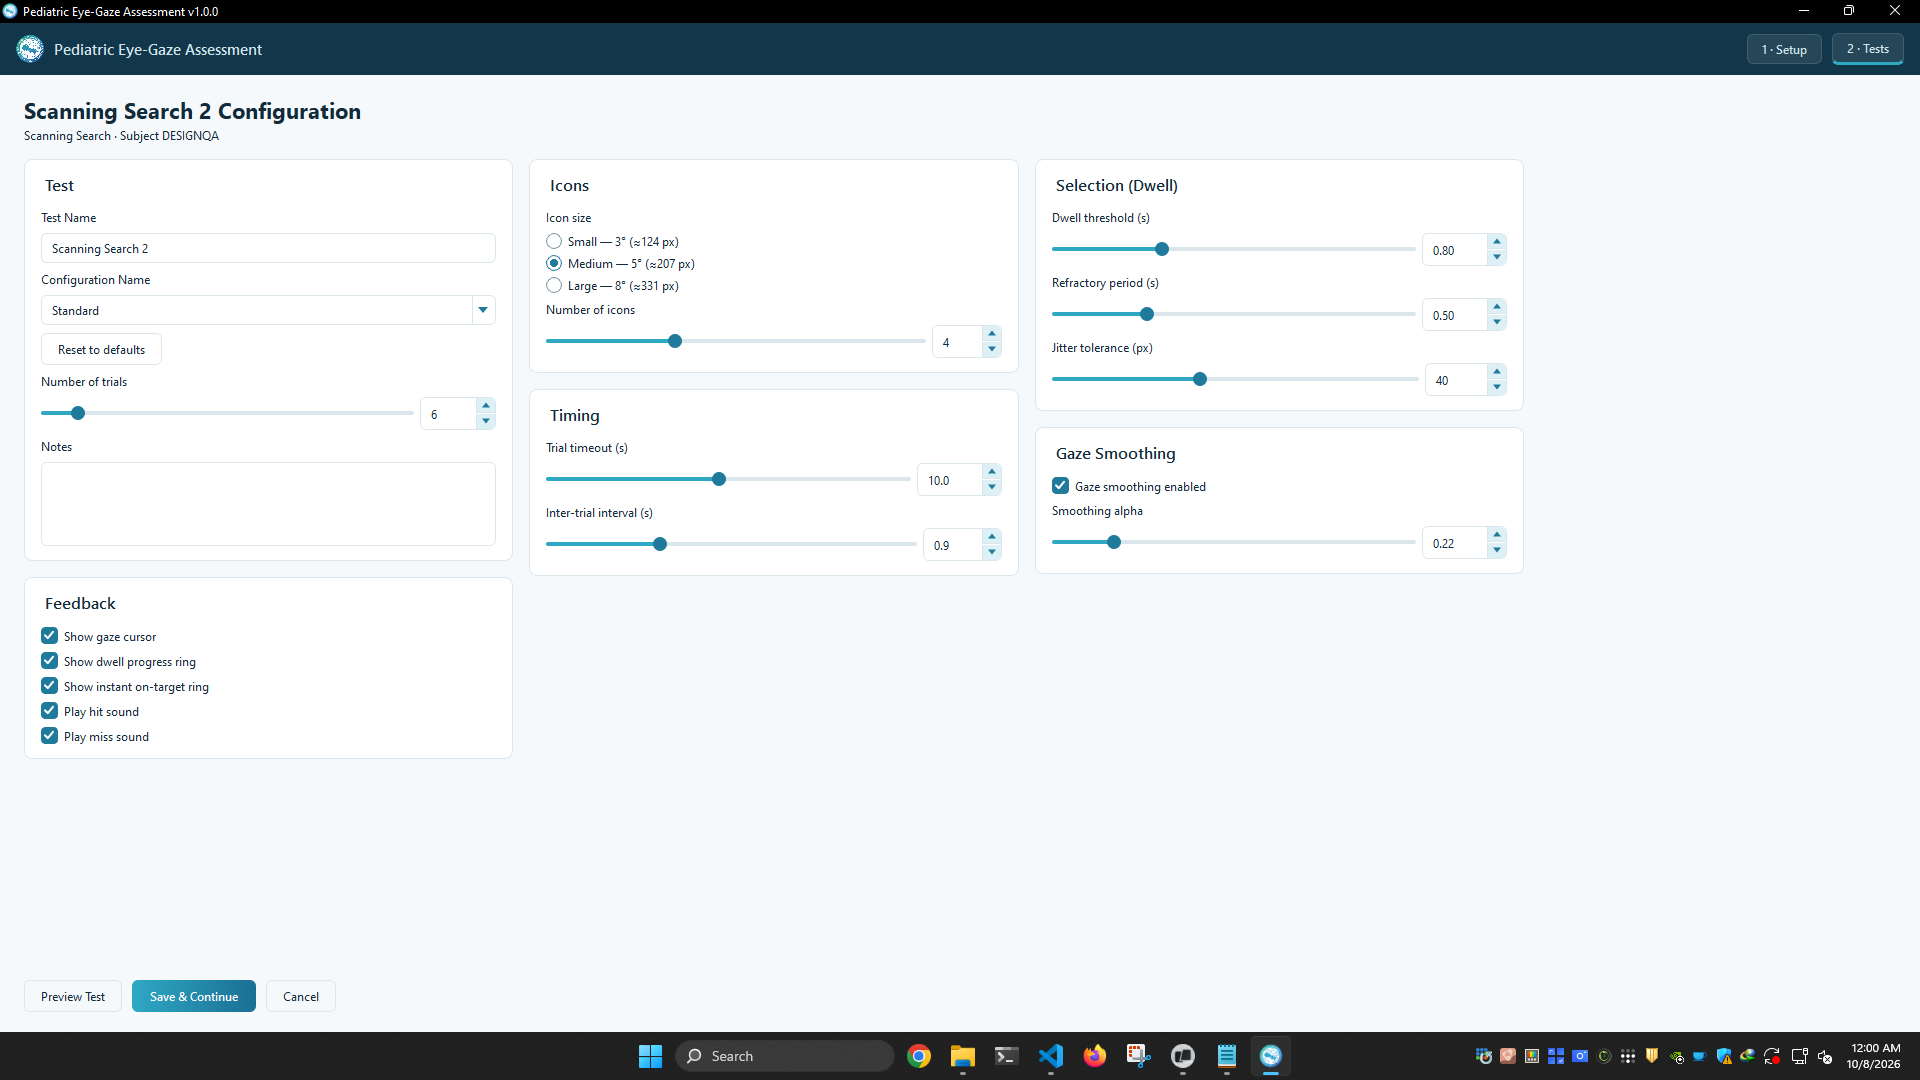
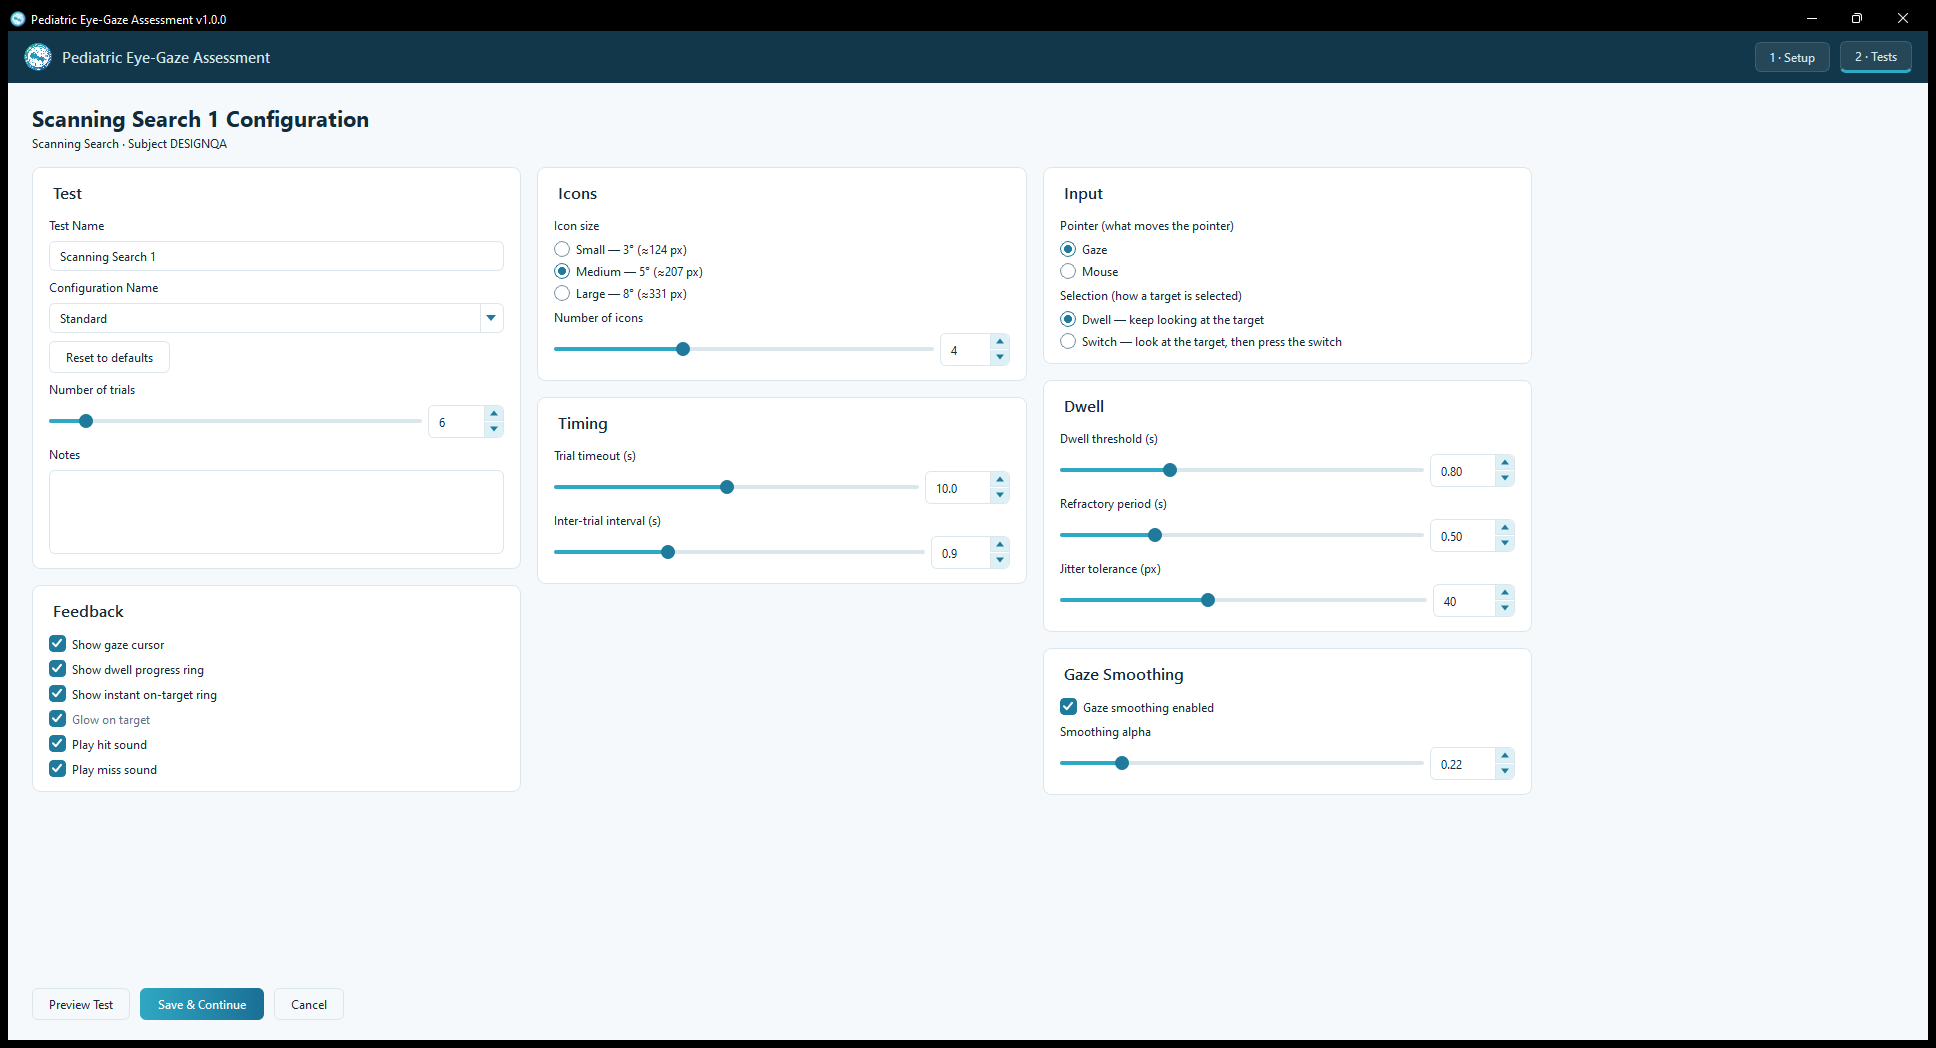
Refresh the Fable kit at c300411: re-capture Setup and the config pages with the Input card, add Mouse+Switch config, config-name dialog, Mouse start page and Switch glow captures (17-20), update inventory, brief, research T7 row and the refresh checklist

diff --git a/docs/design/current-design-inventory.md b/docs/design/current-design-inventory.md
@@ -1,4 +1,4 @@
-# Current design inventory (2026-10-07, branch feature/compass-task-flow)
+# Current design inventory (2026-10-07, refreshed 2026-10-08 at `c300411`, branch feature/compass-task-flow)
 
 There is no **documented** design system. There is an informal one, built page by page while the
 SPECs were implemented: a colour token list plus one stylesheet. This file lists what exists, so an
@@ -47,7 +47,16 @@ Font: the Qt default on Windows (Segoe UI); no font is set.
 - Feedback: `wtmhAlertInfo / Success / Warning / Error` (tinted, left border), badges
   `wtmhBadgeAccent / Success / Danger / Neutral` (pill, 9 px radius, 11 px text).
 - Data: `wtmhTestTable` (Test List), report tables (`FitTable`), `SliderSpinRow` (slider + spin box).
+- Forms (configuration page): radio groups with a plain label above (`Pointer (what moves the
+  pointer)`, `Selection (how a target is selected)`, icon size, cell gap, movement path); a
+  control that does not apply to the chosen Selection is **greyed in place** (label, slider and
+  spin box at the disabled colours, still laid out) rather than hidden (SPEC-input-selection
+  4.1; screenshot 17).
+- Notes (one-line, info style): the Setup page's "No tracker connected: only Mouse tests can run."
+  above the Continue button (01), the Start page's "Mouse test — ..." line under the title (19).
 - Run: run bar (amber strip: status text + Pause / Skip trial / Quit) under the canvas.
+- Small dialogs (`dialog_theme.py`): Add New Test (03), "Save as a new configuration" name prompt
+  (18): one sentence, one field, primary + ghost button, no icon.
 
 ## 4. Child-facing canvas (forest theme)
 
@@ -56,23 +65,43 @@ inactive scanning shapes in pale green; grid cells as rounded outlined boxes; fo
 fading trail; gaze cursor = small dark halo + white core; hit character = butterfly; hit/miss
 sounds. Sizes are visual-angle based (3 / 5 / 8 deg).
 
+Added by SPEC-input-selection-and-follow.md step 2 (`7b5ece6`, in the tree since the first
+captures): **Glow on target**, a soft radial halo in the theme's particle colour (forest: green)
+behind the target while the pointer is on it, drawn only under Switch selection (and, once step 3
+lands, in Follow the Target); the instant on-target ring (dark green) draws on top of it
+(screenshot 20). In a Gaze + Switch run the OS cursor is parked and hidden; in a Mouse run the OS
+arrow is the pointer and the gaze cursor is drawn at it. The scanning target's white ring is
+always a circle, also on the square, triangle and diamond shapes.
+
 ## 5. Screenshots (`screenshots/`, real app, 1920x1080 @ 100 %, 2026-10-08)
 
-| File | Page |
-|---|---|
-| 01-setup-empty | Setup (no subject, not connected) |
-| 02-test-list-empty, 04-test-list, 12-test-list-with-done | Test List (empty, Not Done, Done rows) |
-| 03-add-test-dialog | Add New Test dialog |
-| 05-config-scanning, 07-config-follow, 09-config-grid | Configuration page per task |
-| 06-run-scanning-preview, 08-run-follow-preview, 10-run-grid-preview | Task canvas (Preview, mouse) with run bar |
-| 11-start-page-blocked | Start page with the blocker banner |
-| 13-report-summary, 14-report-summary-lower, 15-report-detailed | Report (real run P9REAL: scanpath, legend, eye metrics, trial table) |
-| 16-report-pdf-grid.pdf | PDF report (A4 portrait) |
+| File | Page | Captured |
+|---|---|---|
+| 01-setup-empty | Setup (no subject, not connected; the "only Mouse tests" note) | 2026-10-08 refresh |
+| 02-test-list-empty, 04-test-list, 12-test-list-with-done | Test List (empty, Not Done, Done rows) | 2026-10-08 first set |
+| 03-add-test-dialog | Add New Test dialog | first set |
+| 05-config-scanning, 07-config-follow, 09-config-grid | Configuration page per task, default Gaze + Dwell (Input card, Dwell card, Glow) | refresh |
+| 06-run-scanning-preview, 08-run-follow-preview, 10-run-grid-preview | Task canvas (Preview, mouse, Dwell) with run bar | first set |
+| 11-start-page-blocked | Start page of a Gaze test with the blocker banner | first set |
+| 13-report-summary, 14-report-summary-lower, 15-report-detailed | Report (real run P9REAL: scanpath, legend, eye metrics, trial table) | first set |
+| 16-report-pdf-grid.pdf | PDF report (A4 portrait) | first set |
+| 17-config-scanning-mouse-switch | Configuration page with Pointer = Mouse, Selection = Switch: dwell threshold and dwell ring greyed in place, "Modified from Standard" | refresh |
+| 18-config-name-dialog | "Save as a new configuration" prompt (Save & Continue after changing Standard) | refresh |
+| 19-start-page-mouse | Start page of a Mouse test: no blocker, the "Mouse test — the tracker is not connected..." note, switch wording in the read-aloud text | refresh |
+| 20-run-scanning-switch-glow | Scanning practice under Mouse + Switch with the pointer on the target: green glow halo + dark instant ring, run bar "mouse pointer" | refresh |
+
+Capture method: the first set is a screen grab of the maximized window (1920x1080, Windows
+taskbar visible at the bottom); the refresh is an OS PrintWindow of the window
+(`tools/qa/capture_window.ps1`, 1936x1048, the 8 px window frame included, no taskbar). Same
+window size and scale in both.
 
 Not captured (need a recorded run or an open dialog flow): Test Complete / quit / discard
-dialogs, rename and configuration-save dialogs, calibration details. Their layout is in
-`docs/wireframes/run-end.md` and `task-config.md`.
+dialogs, rename dialog, calibration details. Their layout is in `docs/wireframes/run-end.md` and
+`task-config.md`.
 
-Note: these screenshots predate SPEC-input-selection-and-follow.md (Input card, Switch, Follow
-the Target) and SPEC-subject-data-layout.md (Setup folder choice). Re-capture after those land if
-the evaluation should include them.
+State of the tree: the screenshots show `c300411`, which has SPEC-input-selection-and-follow.md
+steps 1-2 (Input card, Switch, Mouse, Glow). **Step 3 (Follow the Target: Pointer-only Follow page
+without the Dwell card, "Trial duration", no Selection window) is built but not merged**, so 07
+and 08 still show Follow & Click with a Dwell card and a Selection window. Step 4 (report tables
+for Switch and Follow) and SPEC-subject-data-layout.md (Setup folder choice) are not built. The
+wireframes in `docs/wireframes/task-config.md` and `report-*.md` show the intended end state.

diff --git a/docs/design/README.md b/docs/design/README.md
@@ -5,30 +5,39 @@
 | `ai-ish-research.md` | What makes a UI look AI-generated (tells T1-T11, with sources) and design systems that fit clinical desktop software |
 | `current-design-inventory.md` | Today's informal design system: tokens, components, canvas theme, screenshot index |
 | `fable-brief.md` | Task brief for the Fable UI/UX evaluation (Task A) and proposal (Task B) |
-| `screenshots/` | Real-app captures of every page, 1920x1080 @ 100 % (2026-10-08) |
+| `screenshots/` | Real-app captures of every page, 1920x1080 @ 100 % (2026-10-08; 01-20, see the inventory's §5 for which set each comes from) |
 | `fable-evaluation.md`, `fable-proposal.md` | Written later by Fable |
 
 Wireframes (layout and wording) stay in `docs/wireframes/`.
 
 ## Refresh the kit before running Fable
 
-The kit was captured at commit **`64692b3`** (2026-10-08). Before a Fable run, check what changed
-since then and refresh only what is affected:
+The kit reflects the tree at commit **`c300411`** (refreshed 2026-10-08; the first set was taken
+at `64692b3`, but before step 2 of SPEC-input-selection-and-follow.md had been applied to the
+main tree, so pages 01/05/07/09 were re-captured and 17-20 added). Before a Fable run, check what
+changed since then and refresh only what is affected:
 
-1. `git diff --stat 64692b3 -- src/ui src/tasks src/data/report_*.py configs/themes docs/wireframes docs/specs`
+1. `git diff --stat c300411 -- src/ui src/tasks src/data/report_*.py configs/themes docs/wireframes docs/specs`
+   (also compare the screenshot timestamps with the commit times: a capture taken while a step
+   still sat in a worktree predates code that the baseline commit already contains)
 2. **Pages whose look or content changed** (e.g. the Input card, the Dwell card and Glow from
    SPEC-input-selection-and-follow.md; Follow the Target canvas and report; the Setup folder choice
    from SPEC-subject-data-layout.md): re-capture them.
    - Launch: `$env:QT_MCP_PROBE="1"; $env:QT_MCP_PORT="9142"; ..\.venv\Scripts\python.exe tools\qa\qa_harness.py`
      (deferred clicks, so modal dialogs can be driven by qt-mcp).
    - Capture: `tools\qa\capture_window.ps1 <NN-name>` (OS PrintWindow of the app window, safe if
-     the user switches windows; a dialog: pass its title as the second argument).
-   - Use a throwaway subject (e.g. `DESIGNQA`) and delete `sessions/_tests/DESIGNQA` afterwards;
-     real reports come from an existing subject (e.g. P9REAL). Preview needs no tracker.
+     the user switches windows; a dialog: pass its title as the second argument; if `FindWindow`
+     misses the dialog, enumerate the process's windows and PrintWindow the handle directly).
+   - A canvas state that needs the mouse on the target (glow, rings): poll PrintWindow captures
+     for the target colour at the known shape centres, `SetCursorPos` there, capture again (the
+     maximized window's client area starts 8 px inside the capture).
+   - Use a throwaway subject (e.g. `DESIGNQA`) and delete `sessions/_tests/DESIGNQA` and
+     `sessions/_settings/DESIGNQA` (named configurations) afterwards; real reports come from an
+     existing subject (e.g. P9REAL). Preview and Practice need no tracker.
    - Keep the file numbering; add new pages at the end (`17-…`).
 3. `current-design-inventory.md`: update the tokens table if `wtmh_theme.py` changed, the
    component list, the canvas section, and the screenshot index + date; replace the "Note: these
    screenshots predate…" line.
 4. `ai-ish-research.md`: re-score the "How this app scores today" table only if styling changed.
 5. `fable-brief.md`: add any new page or constraint (e.g. switch users, Mouse tests) to §2/§3.
-6. Write the new baseline commit here in place of `64692b3`.
+6. Write the new baseline commit here in place of `c300411`.

diff --git a/docs/design/fable-brief.md b/docs/design/fable-brief.md
@@ -9,7 +9,8 @@ approves a SPEC written from the proposal** (project workflow: SPEC, wireframe g
 
 1. `docs/design/ai-ish-research.md`: the AI-ish tells (T1-T11) with sources, and candidate design systems.
 2. `docs/design/current-design-inventory.md`: today's tokens, components, canvas theme and the screenshot index.
-3. `docs/design/screenshots/*.png` + `16-report-pdf-grid.pdf`: the real app.
+3. `docs/design/screenshots/*.png` + `16-report-pdf-grid.pdf`: the real app (01-20; the
+   inventory's §5 says which were refreshed on 2026-10-08 and what the tree does not yet show).
 4. `docs/wireframes/*.md`: every page's layout and wording (incl. pages not in the screenshots).
 5. `src/ui/wtmh_theme.py`, `src/ui/canvas.py`, `configs/themes/forest.yaml`: the code behind the look.
 6. For the clinical context: `docs/specs/SPEC-compass-task-flow.md` §1-§3 (why the flow is
@@ -23,6 +24,15 @@ approves a SPEC written from the proposal** (project workflow: SPEC, wireframe g
 - **Child with cerebral palsy** (the subject): sees only the task canvas. Selects targets by eye
   gaze (dwell) or gaze + switch. Needs large, high-contrast targets, low clutter, clear but calm
   feedback, nothing that pulls the gaze away from the task.
+- **Per-test input (SPEC-input-selection-and-follow.md, built 2026-10-08):** Pointer = Gaze or
+  Mouse, Selection = Dwell or Switch, chosen on the configuration page (screenshots 05, 17). The
+  switch is a USB big button that sends a left mouse click; Space/Enter count too. With Switch the
+  target glows while the pointer is on it (20); the dwell threshold and ring are greyed in place.
+  A Mouse test needs no tracker: Setup lets the clinician continue without one (01) and the Start
+  page shows a note instead of the blocker (19). The clinician reads the switch or mouse wording
+  aloud (19). Follow the Target (no selection, pursuit metrics) is built but not yet merged, so
+  the Follow pages (07, 08) still show Follow & Click; judge Follow's config page by
+  `docs/wireframes/task-config.md` where they differ.
 - Platform: PySide6 Qt Widgets, Windows, 1920x1080 @ 100 % is the standard (scaling is warned on
   Setup). Licence: research / non-commercial, so GPL widget libraries are allowed.
 - Scope (user, 2026-10-07): **operator UI and task canvas**.
@@ -38,7 +48,8 @@ For every screenshot / wireframe page, report:
   medical-software practice (colour only for meaning; unmistakable feedback; error prevention;
   scannability under split attention), with the screenshot and the region.
 - **Canvas findings** for the child: target contrast and salience, distractors, feedback timing
-  and intensity, cursor visibility.
+  and intensity, cursor visibility; the Switch glow and instant ring together (20); the circular
+  white ring on non-circular scanning shapes (20, square at top right in 06).
 - **Accessibility:** contrast ratios of text and state colours (WCAG 2.2 AA), target sizes,
   keyboard focus visibility.
 

diff --git a/docs/design/ai-ish-research.md b/docs/design/ai-ish-research.md
@@ -47,7 +47,7 @@ instead of accepting defaults
 | T3 | **Yes** | Setup = 4 stacked cards; configuration page = 3 columns of uniform rounded cards; report sections in boxes |
 | T5 | **Yes** | Info/warning/success banners have a colored left border (`BANNER_BORDER`, `WARNING_BORDER`) |
 | T6 | **Yes** | `SOFT_ACCENT` tinted table headers, pastel green/amber/blue banners, tinted legend box, amber run bar |
-| T7 | Mild | Card shadows; radial gradient targets with white ring |
+| T7 | Mild | Card shadows; radial gradient targets with white ring; since step 2 of SPEC-input-selection (2026-10-08) a soft green glow halo behind the target under Switch selection (screenshot 20; functional feedback, but a glow) |
 | T11 | Partly | Config page gives every setting equal weight; Test List is a full-width table with a detached button column |
 Not present: T4, T8, T9, T10 (no emoji, no animation-heavy UI).
 
